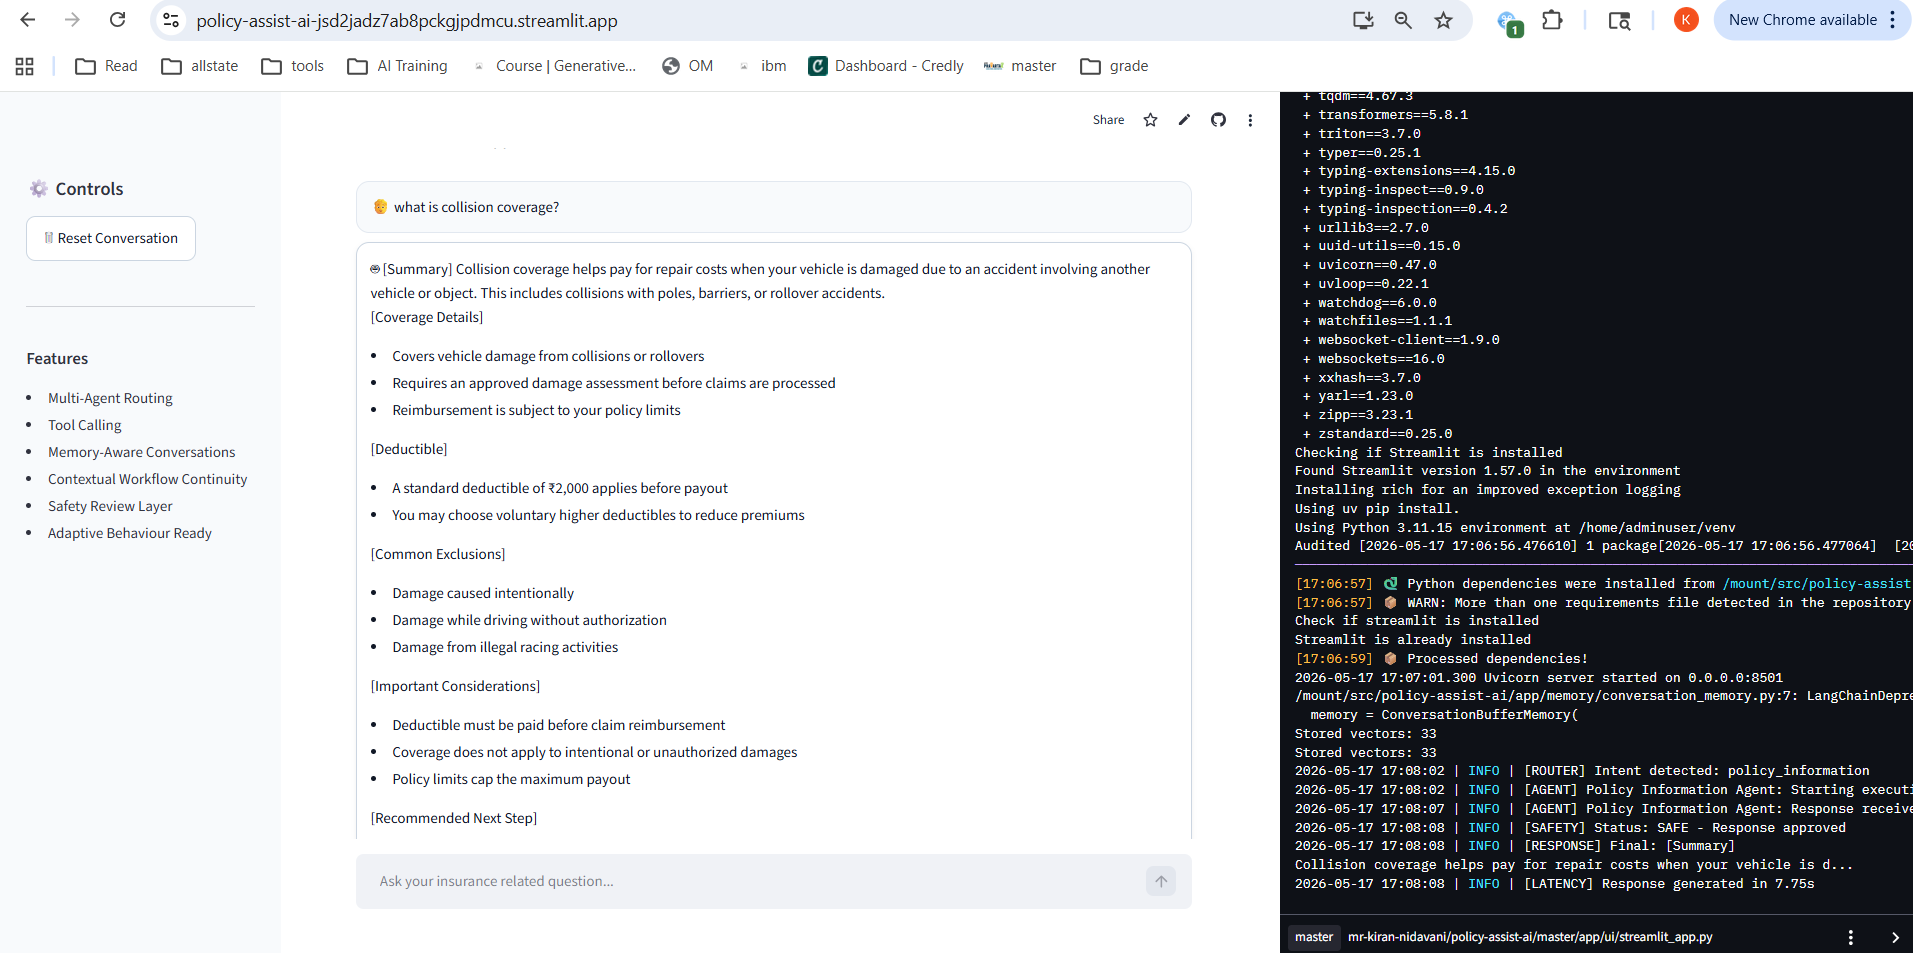
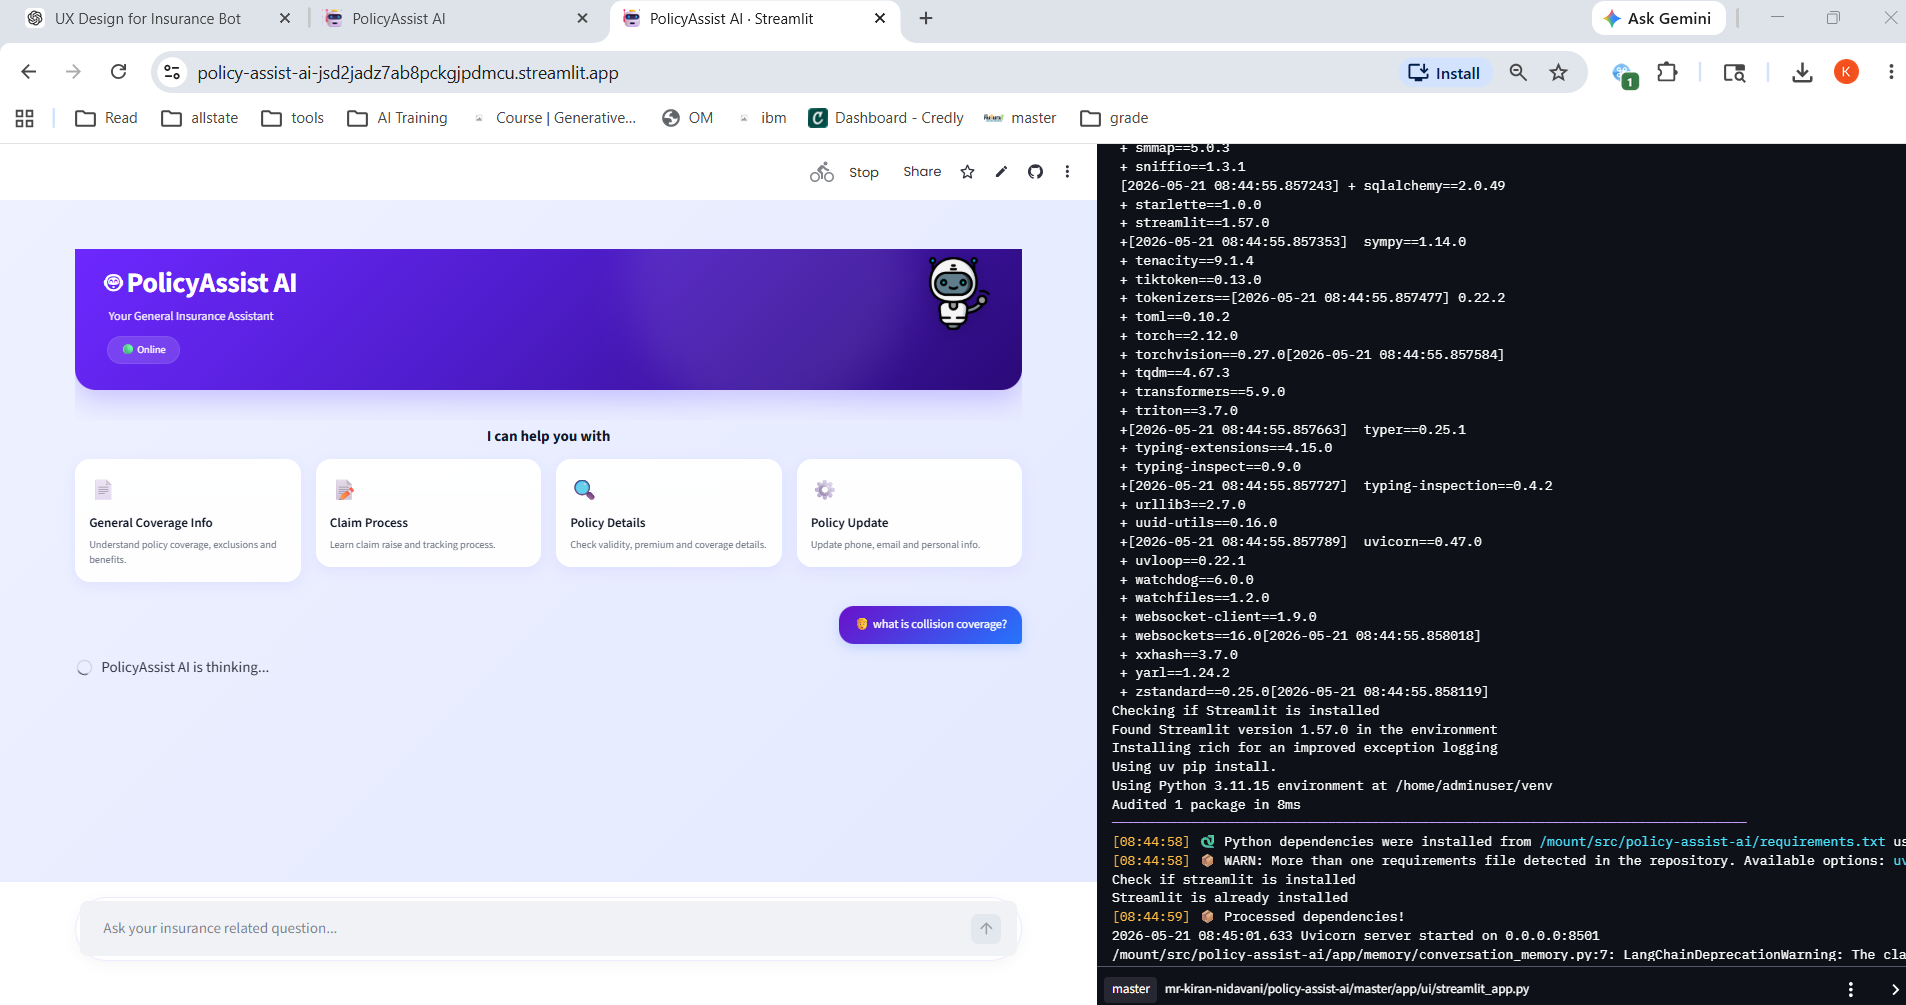
Phase8-Finalize deployment dependencies

diff --git a/docs/phase8/deployment_readiness.md b/docs/phase8/deployment_readiness.md
@@ -293,6 +293,10 @@ Streamlit automatically:
 
 ![Cloud Runtime Execution](screenshots/cloud_execution_2.png)
 
+![Cloud Runtime Execution](screenshots/cloud_execution_3.png)
+
+![Cloud Runtime Execution](screenshots/cloud_execution_4.png)
+
 ---
 
 # 8. Logging & Tracing
